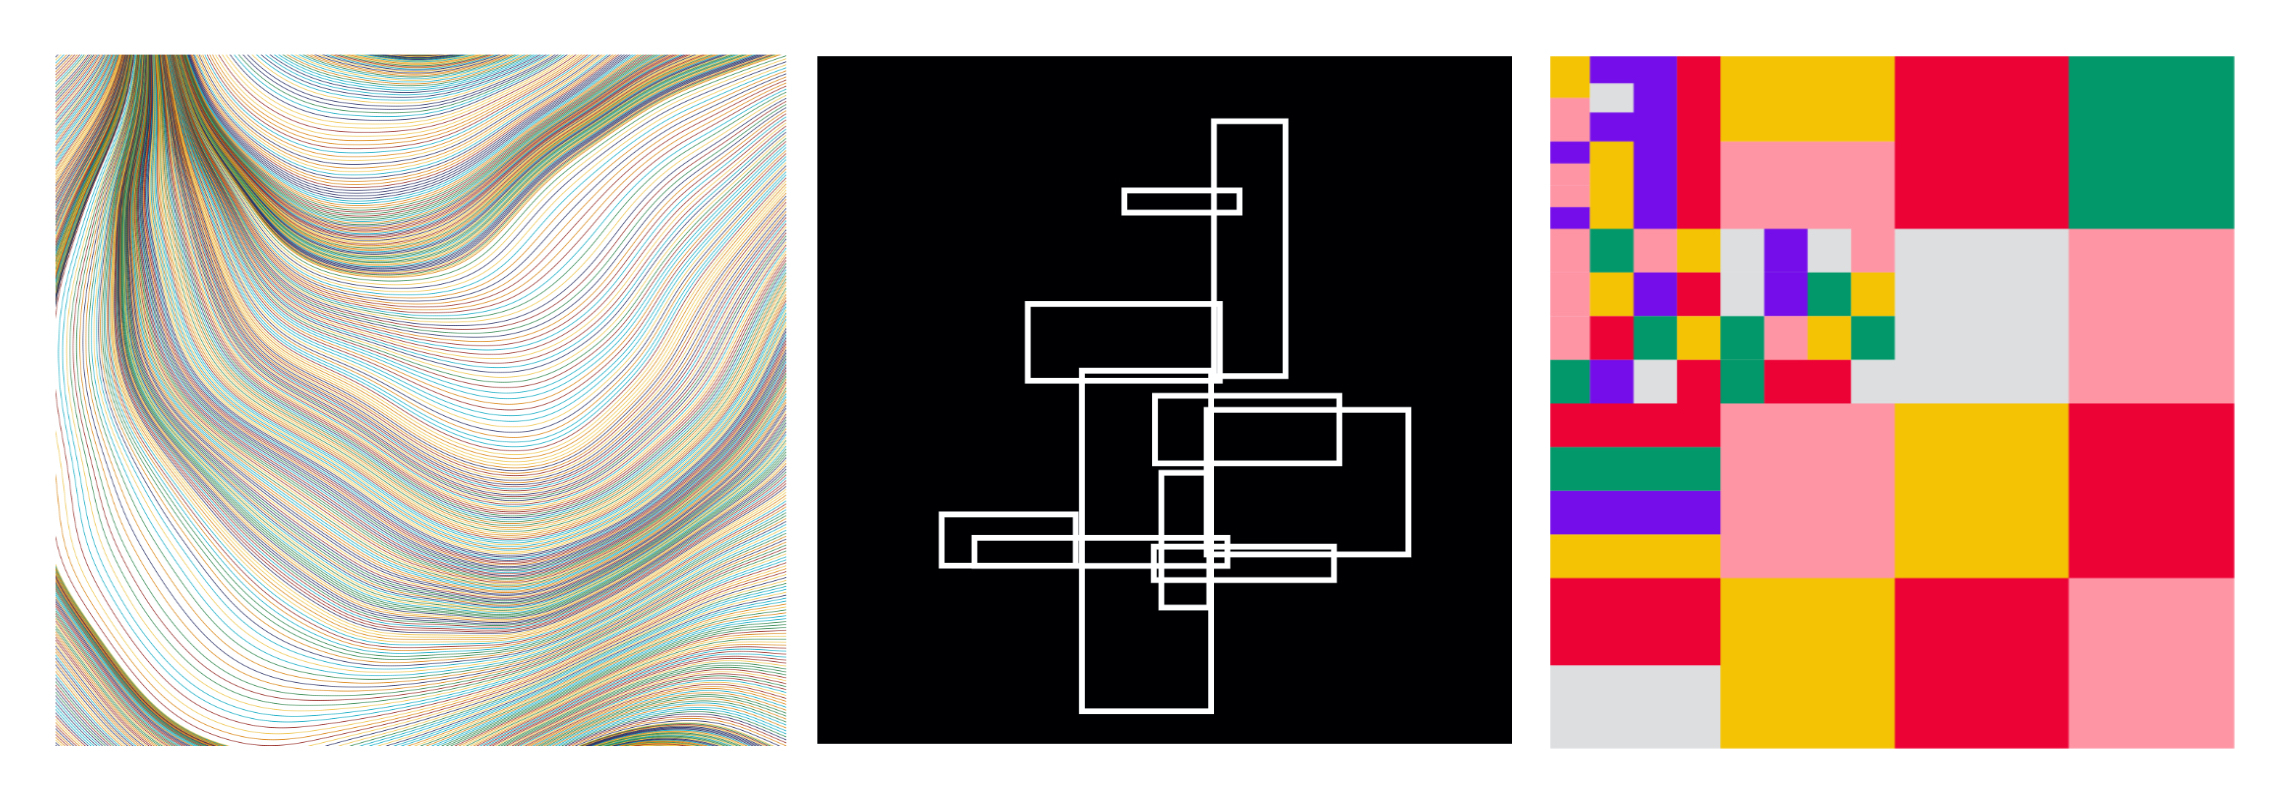
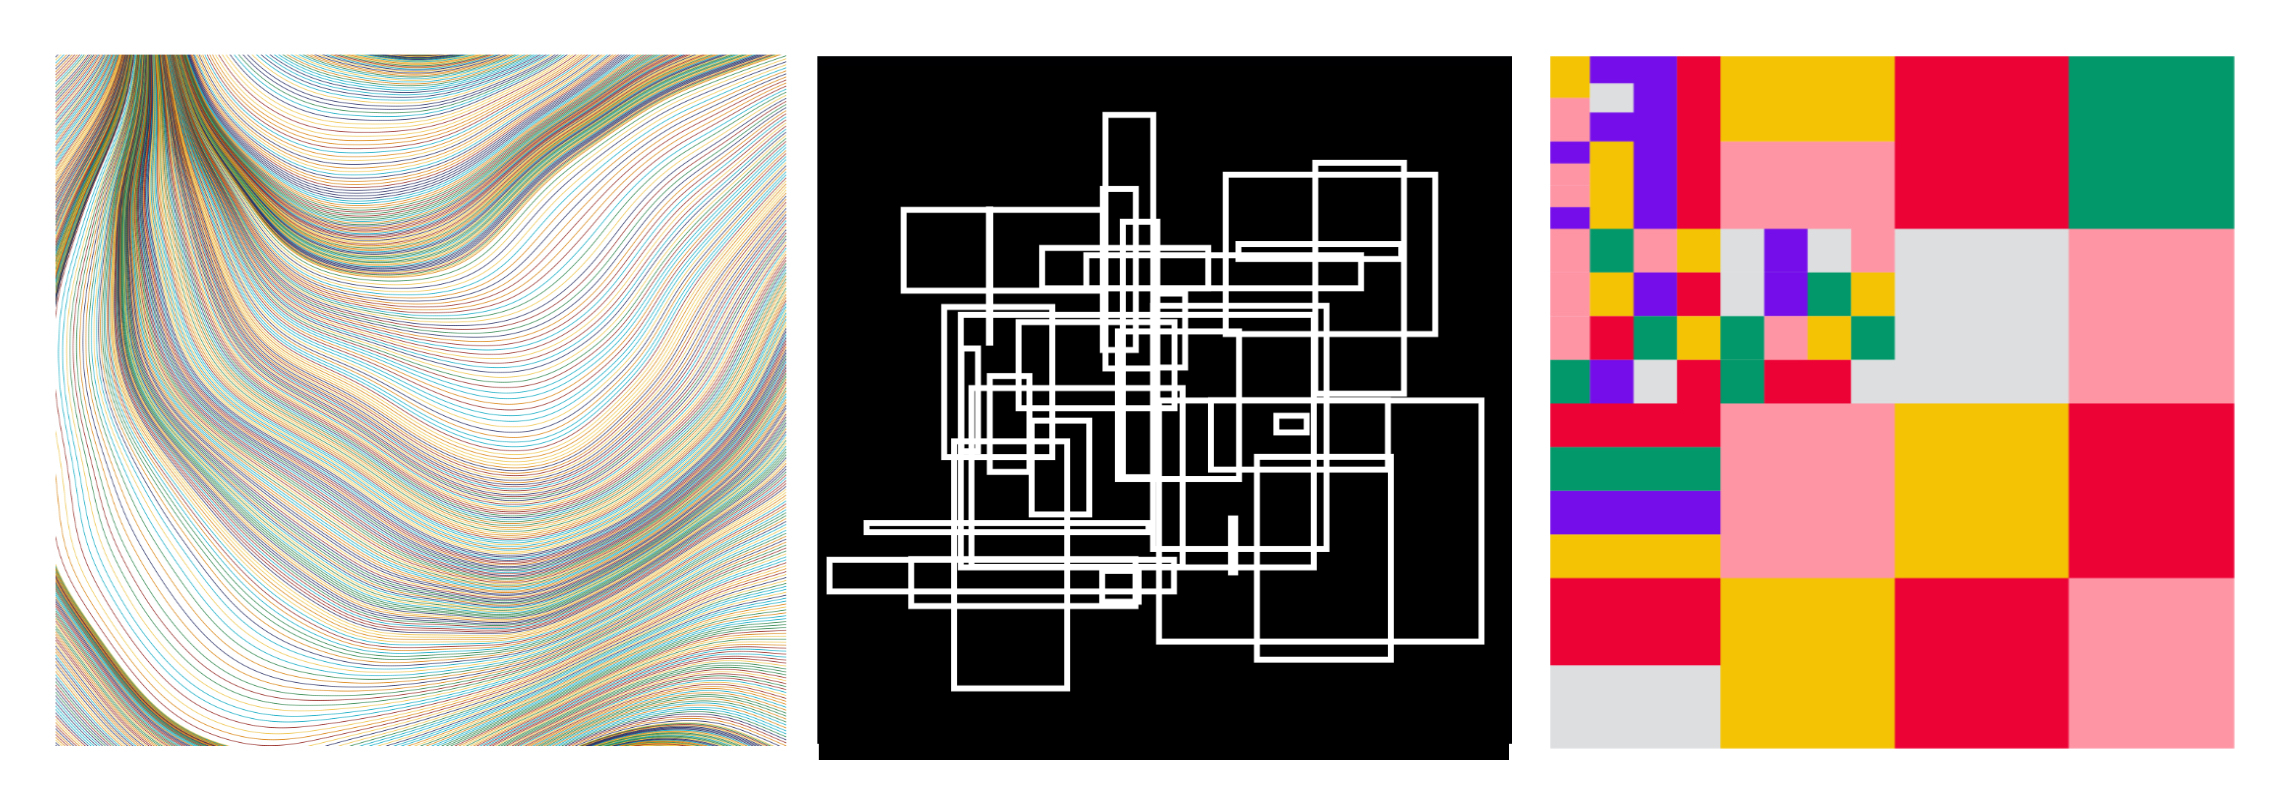
updating img

Changed region(s): [[0.3419, 0.1239, 0.6839, 0.9603]]

diff --git a/examples/005-rectangles/sketch.js b/examples/005-rectangles/sketch.js
@@ -4,7 +4,7 @@ function setup () {
   createCanvas(windowWidth, windowHeight);
   noLoop();
   
-  let rectangleCount = 10;
+  let rectangleCount = 30;
   for (let i = 0; i < rectangleCount; i++) {
     let shrink = 0.5;
     let position = [
